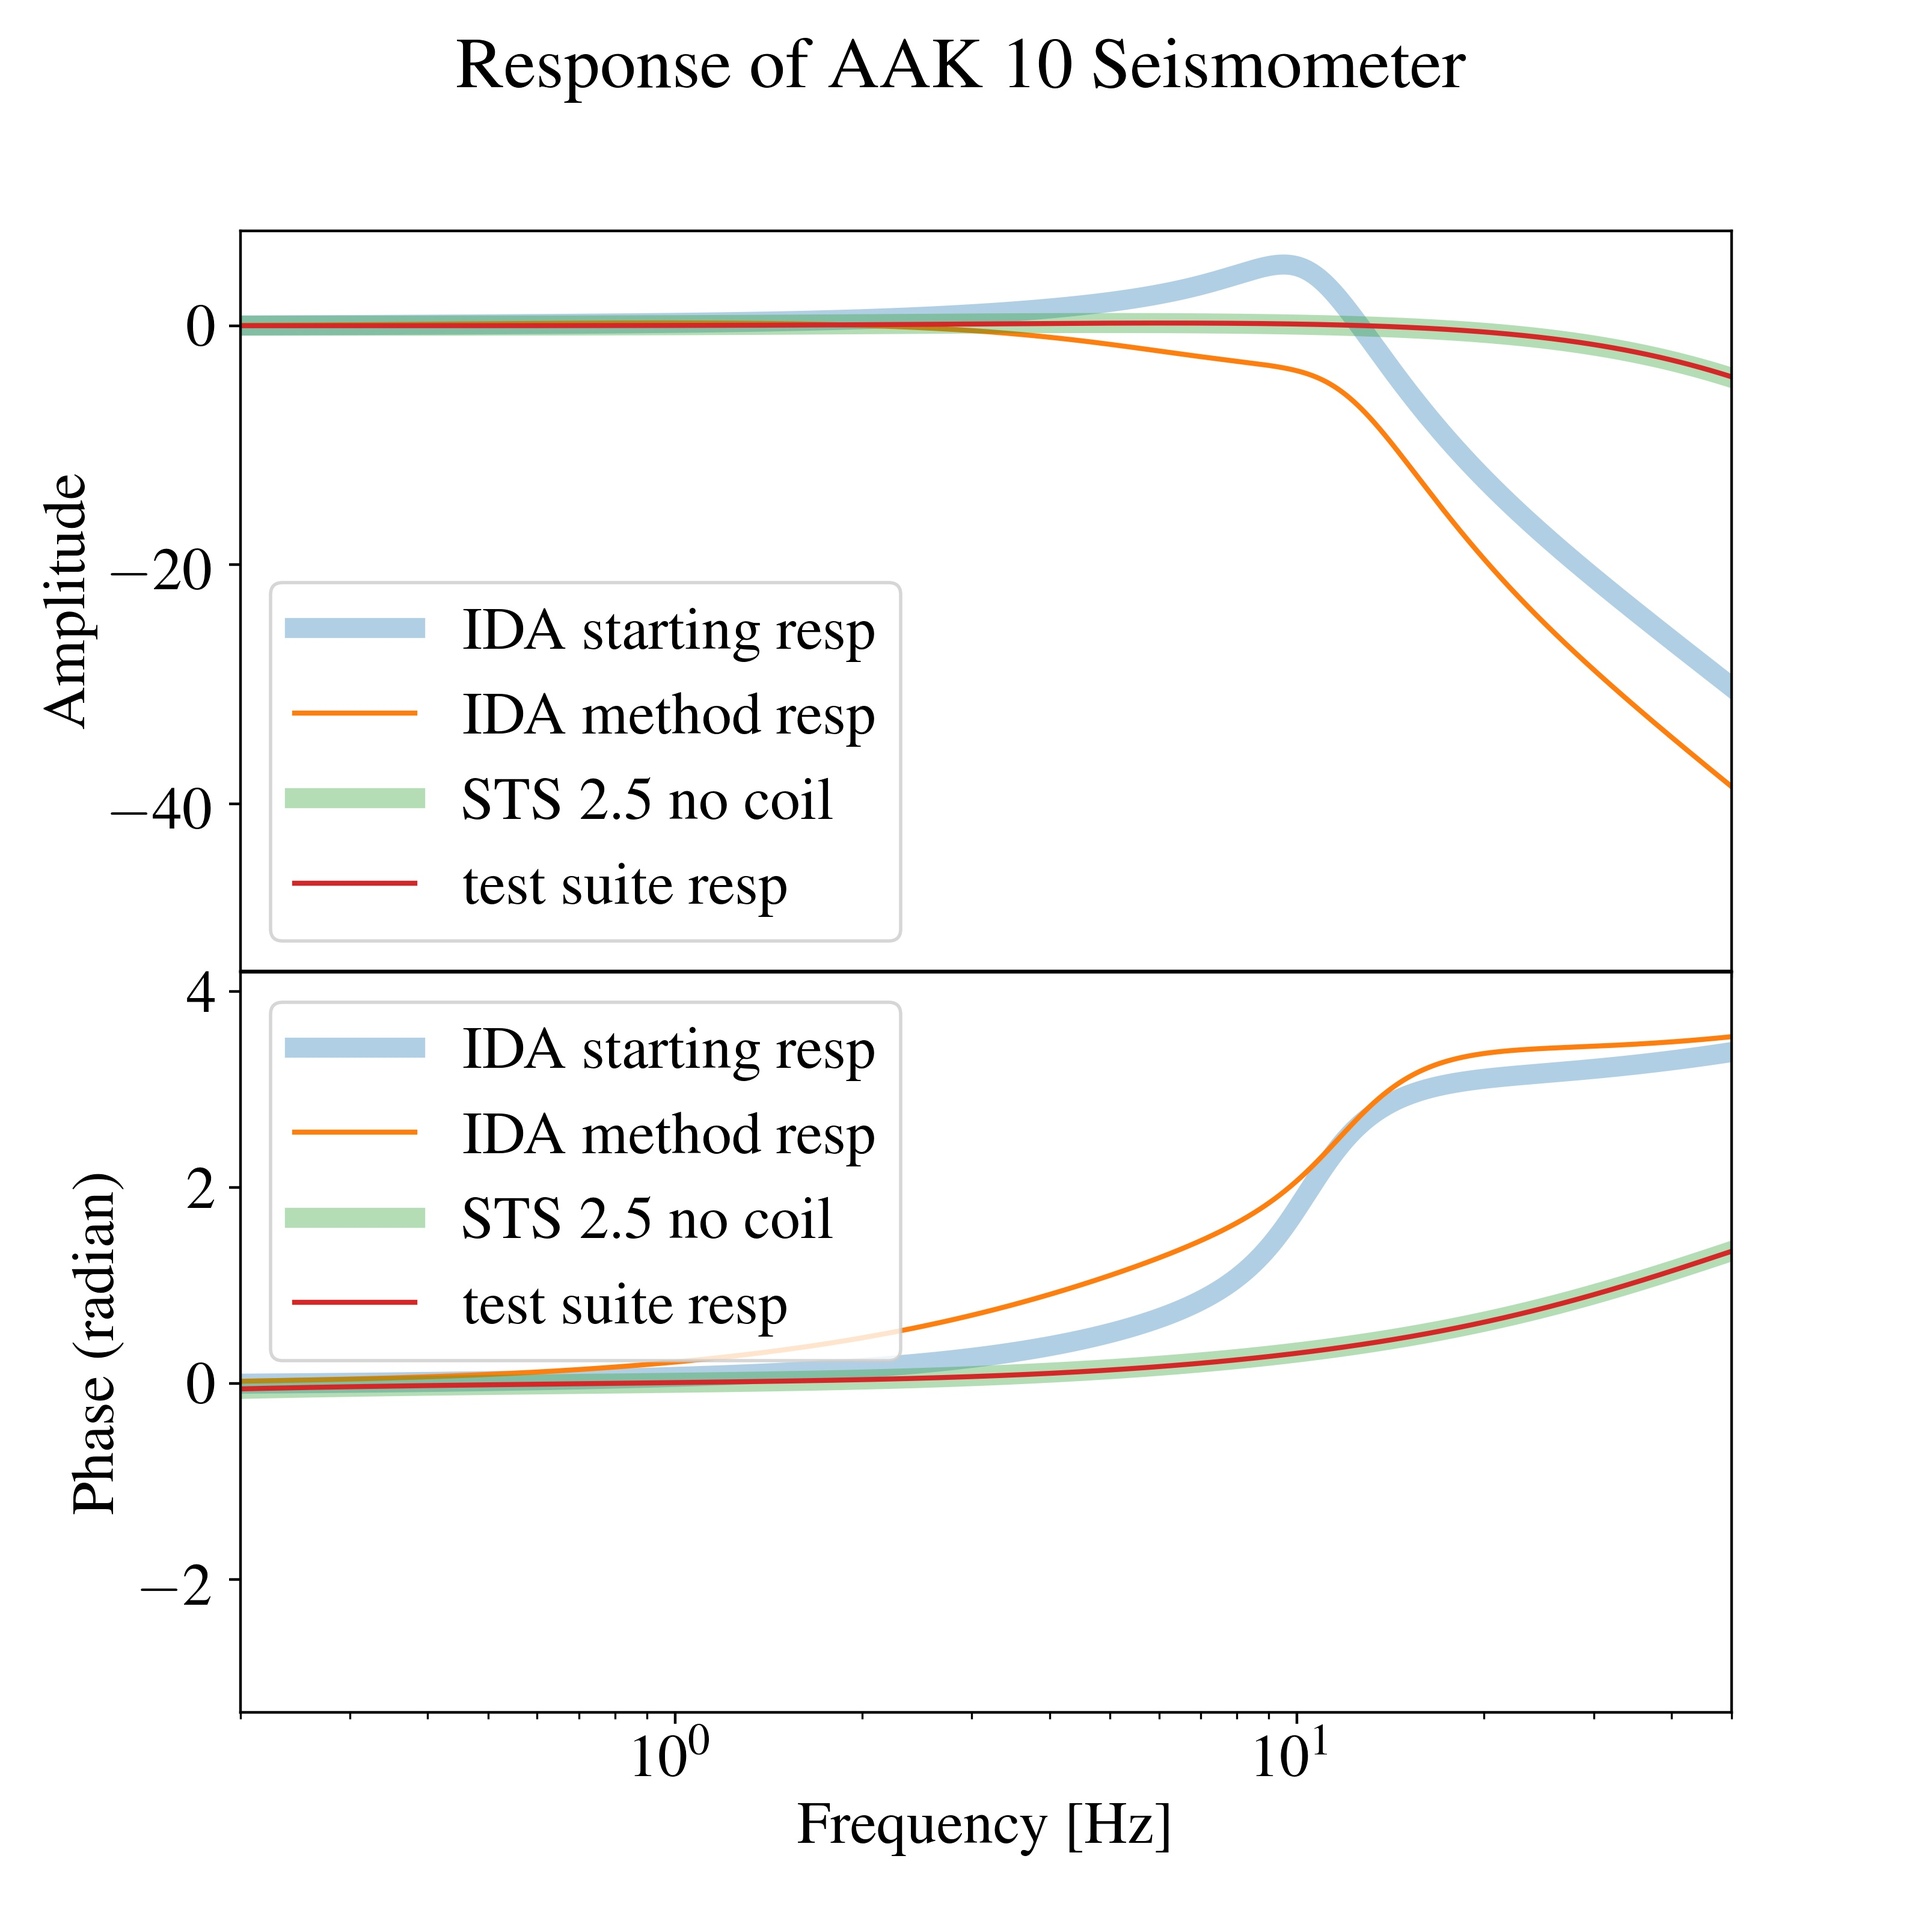
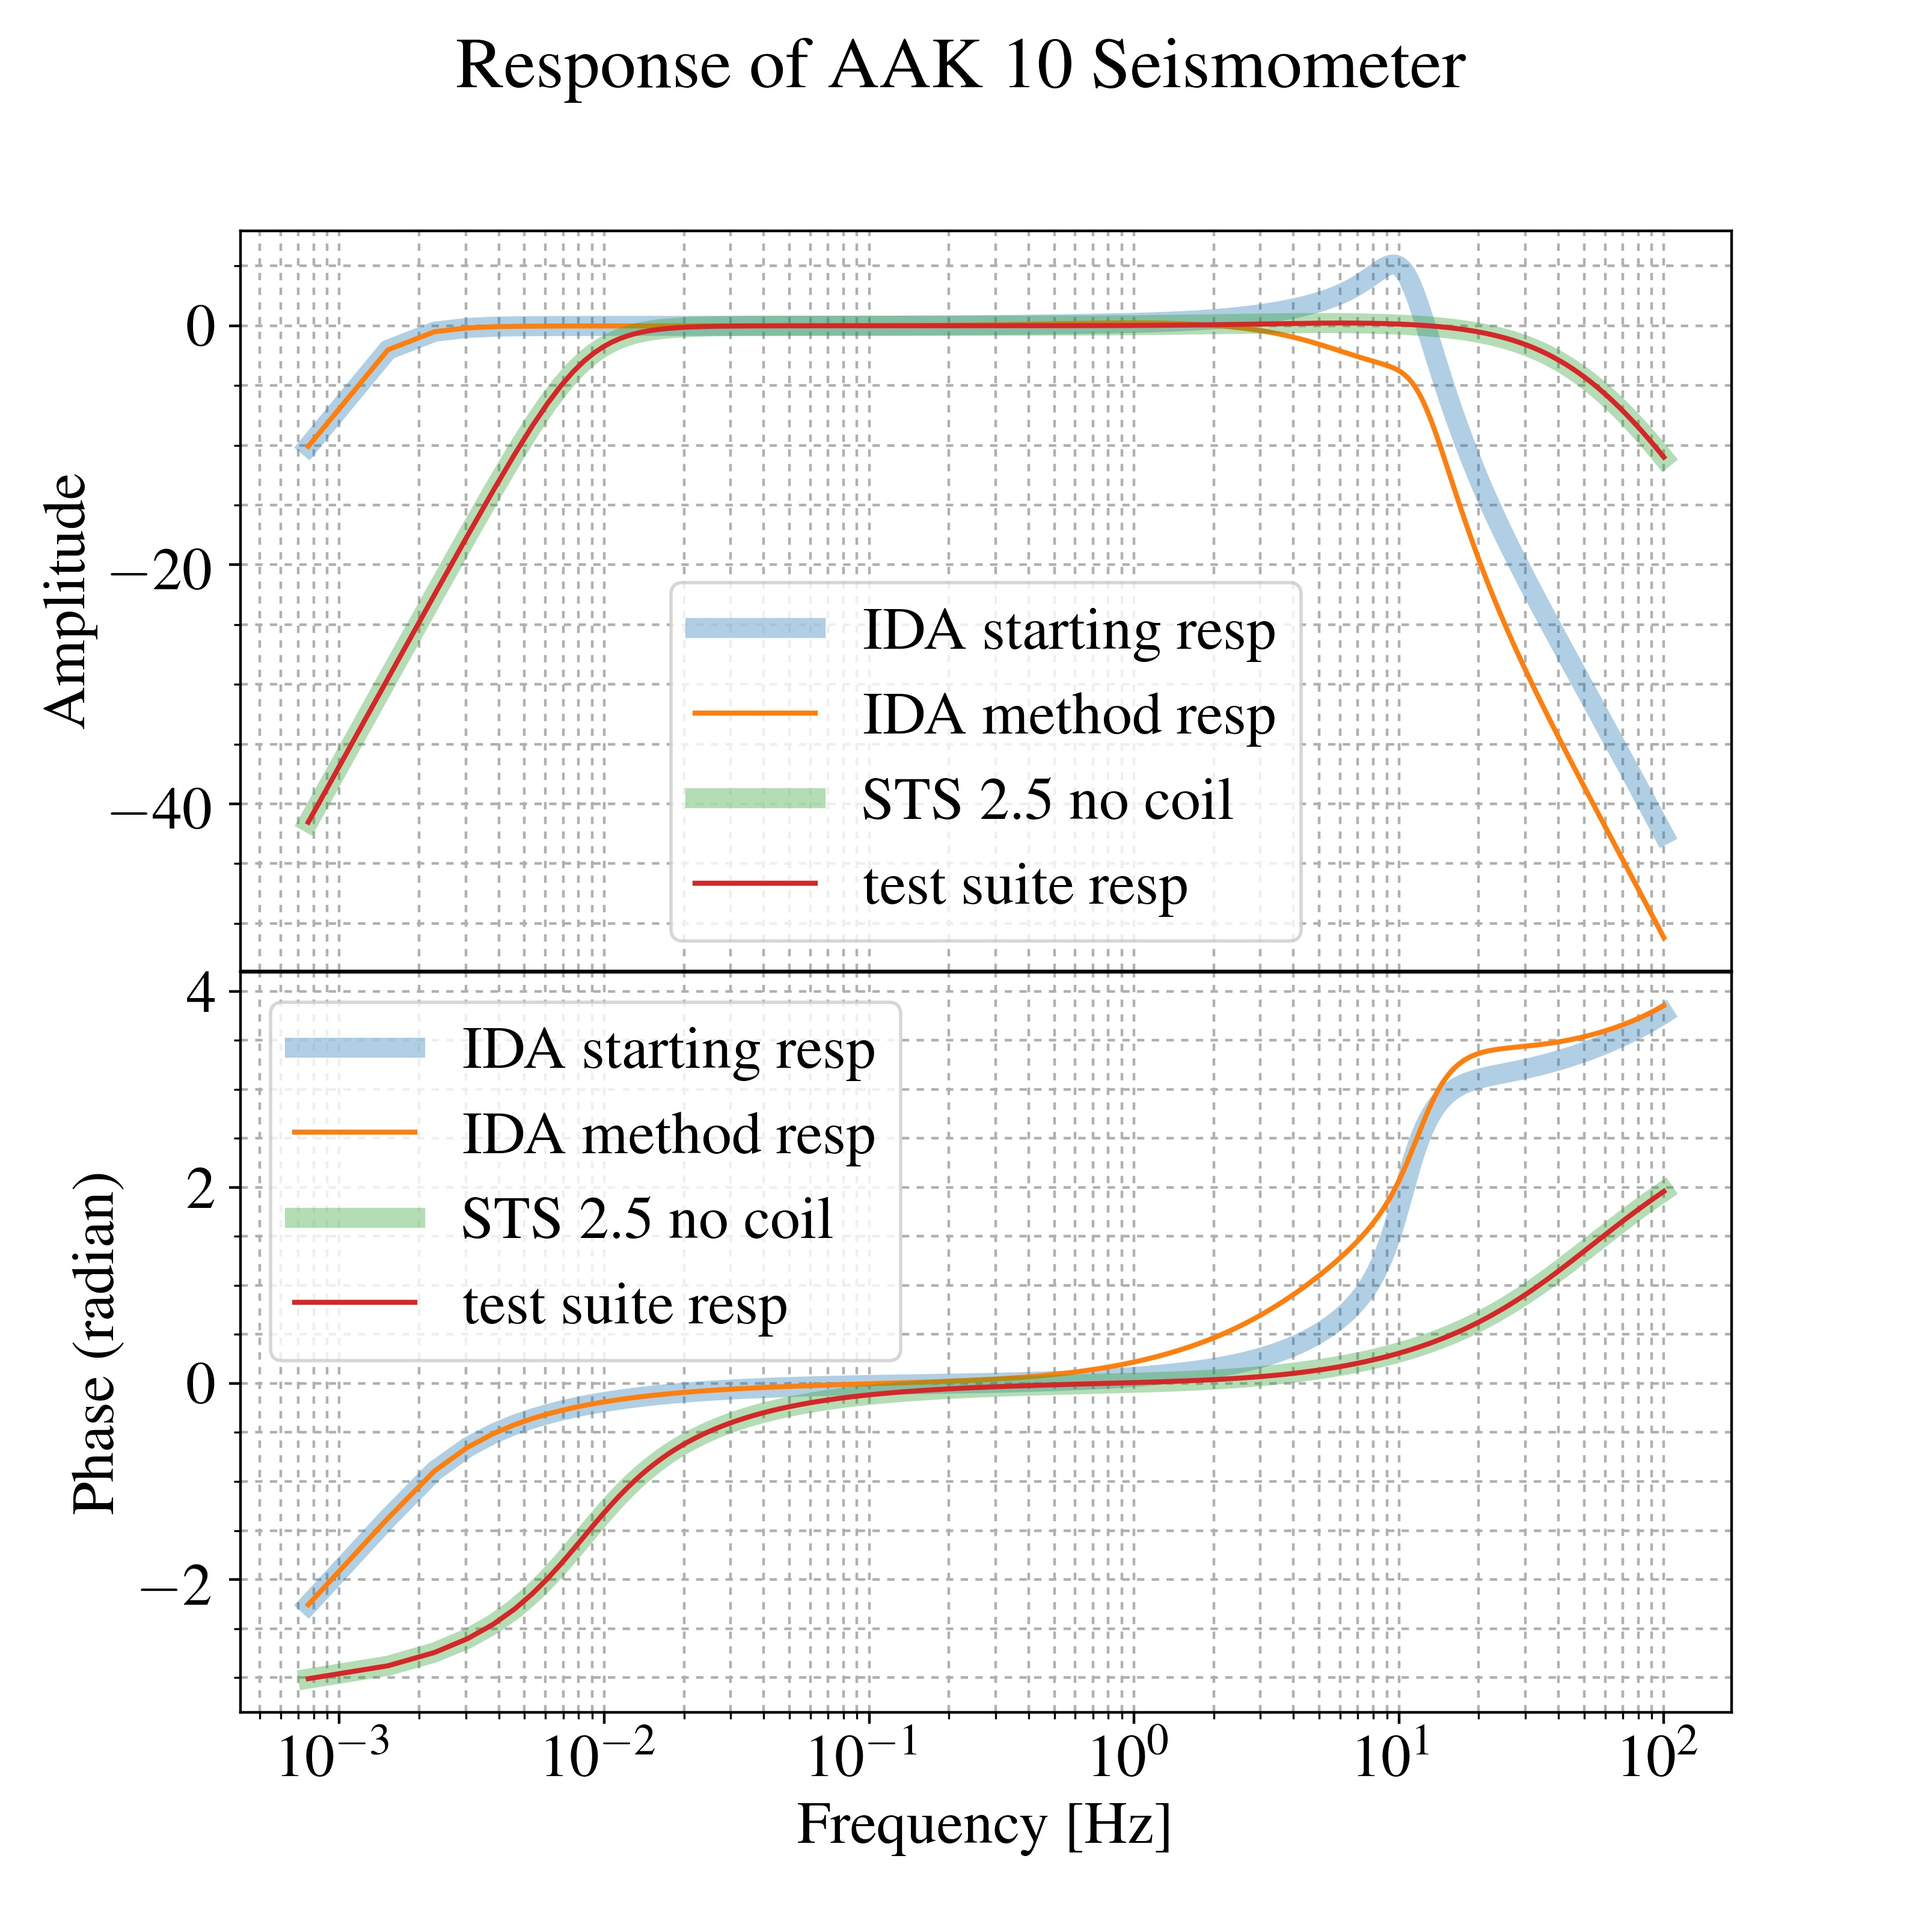
added ticks to the output plot

diff --git a/pltresp.py b/pltresp.py
@@ -118,8 +118,10 @@ plt.ylabel('Amplitude')
 #plt.xlim([0.0001,10000])
 #plt.xlim([0.001,1])
 #plt.xlim([40,800])
-plt.xlim([0.2,50])
-plt.xticks([])
+#plt.xlim([0.2,50])
+plt.xticks()
+plt.minorticks_on()
+plt.grid(which='both', linestyle=':')
 plt.subplot(212)
 # take negative of imaginary part
 print('plotting phase')
@@ -135,13 +137,16 @@ plt.legend()
 #plt.xlabel('Period [S]')
 plt.xlabel('Frequency [Hz]')
 plt.ylabel('Phase (radian)')
+plt.xticks()
+plt.minorticks_on()
+plt.grid(which='both', linestyle=':')
 # title, centered above both subplots
 plt.suptitle('Response of '+instName +' Seismometer')
 #plt.xlim([40,800])
 #plt.xlim([100,1000])
 #plt.xlim([0.001,1])
 #plt.xlim([0.0001,10000])
-plt.xlim([0.2,50])
+#plt.xlim([0.2,50])
 # make more room in between subplots for the ylabel of right plot
 plt.subplots_adjust(wspace=0.3)
 print('writing file')
